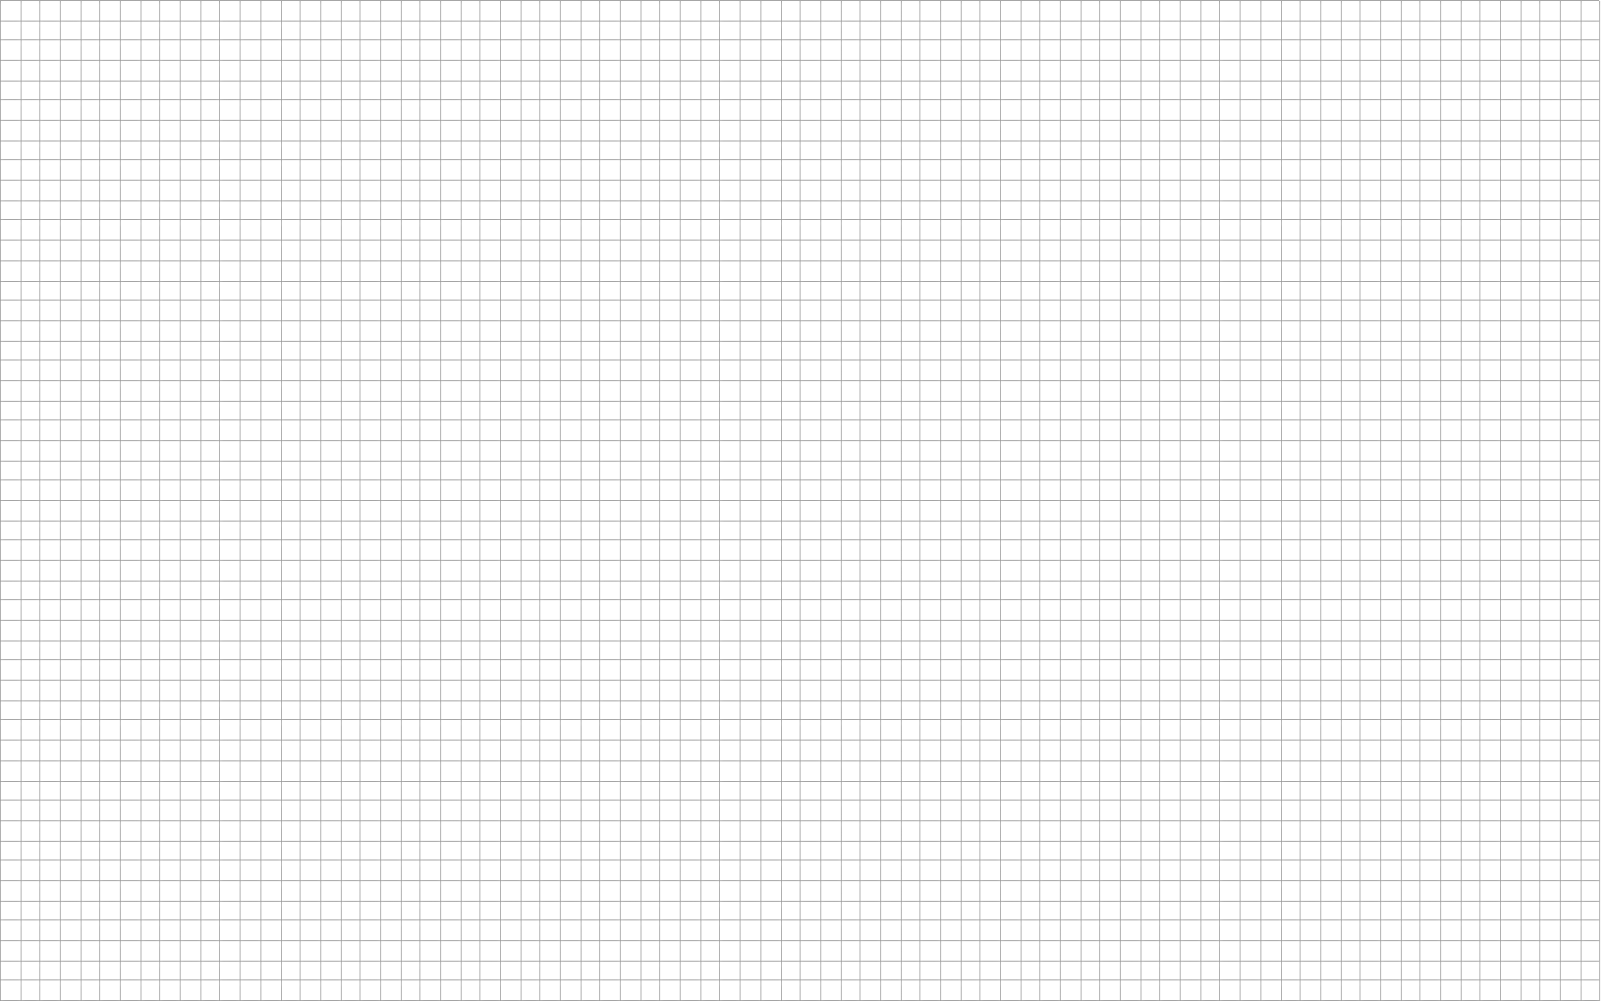
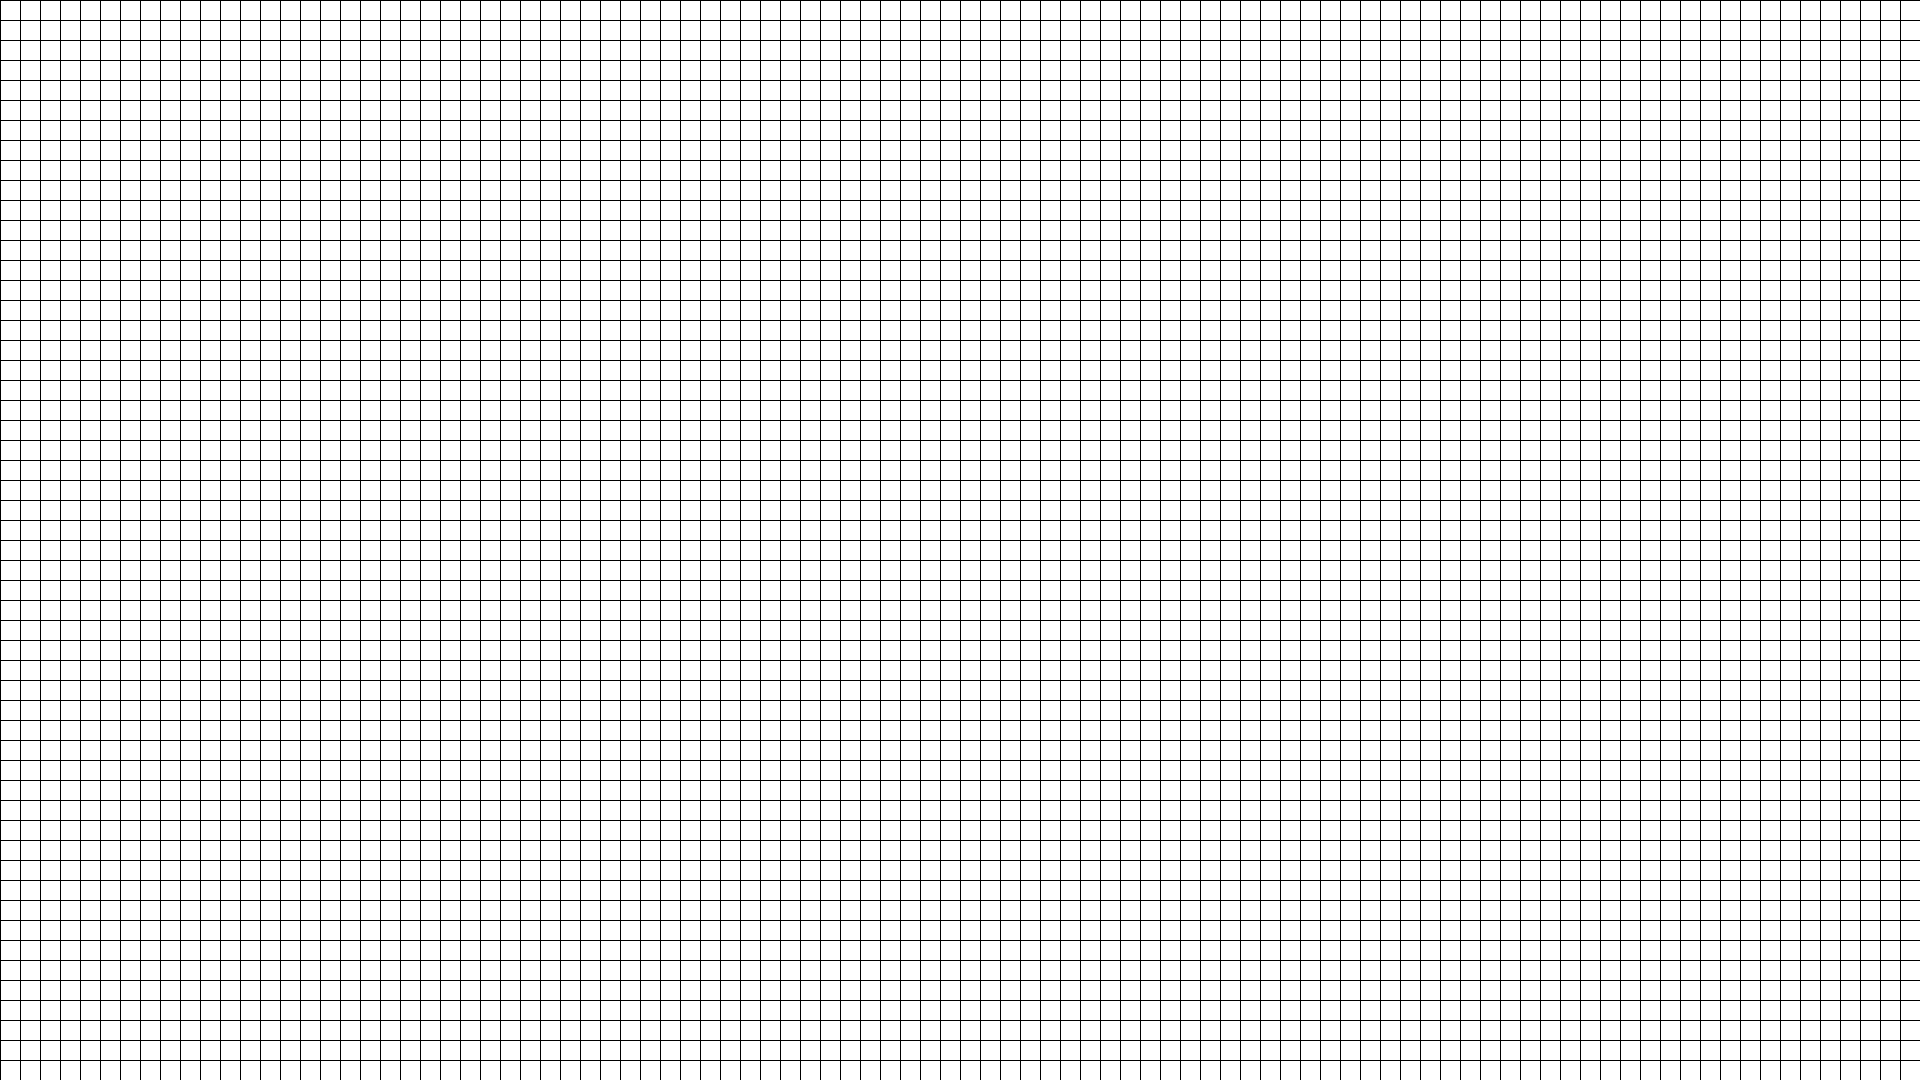
Added Automated Grid Generation (Adjustable)

Changed region(s): [[0.0, 0.0, 1.0, 1.0]]

diff --git a/app/app.js b/app/app.js
@@ -73,8 +73,8 @@ function capitalize(word) {
 }
 
 /**
- * Creates the HTML Elements to make a generic Sidebar (i.e. its rectangle, title and
- * ruler).
+ * Creates the HTML Elements to make a Sidebar (i.e. a rectangle, title, ruler and
+ * collection display.
  * 
  * The result can be seen on the HTML file as this section being included inside the 
  * `body` element:
@@ -82,12 +82,14 @@ function capitalize(word) {
  * <div id="[type]-bar" class="bar">
  *     <span class="bar-title">[Type]</span>
  *     <hr>
+ *     <div>...</div>
+ *     <div>...</div>
  *     ...
  * </div>
  * ```
  * where `[type]` is the value of the given parameter (capitalized for the span
- * element), and the space after the horizontal ruler is left for the elements
- * collection to be added later by `get[Type]Bar()` functions.
+ * element), and the div's after the horizontal ruler represent each element in the
+ * requested bar's collection.
  * @param {string} type `["objects" | "symbols" | "variables"]`
  */
 function getBar(type) {
@@ -169,9 +171,33 @@ function toggleBar() {
     }
 }
 
-// TESTING
+// SIDEBAR TESTING
 let sidebarOn = false;
 let activeBar = "objects";
 
 const sidebarButton = document.getElementById("sidebarToggle");
 sidebarButton.addEventListener("click", () => toggleBar());
+
+// GRID FUNCTIONALITY
+var x_diff = 0;
+var y_diff = 0;
+const grid = document.getElementById("grid");
+var mouseDown = false;
+document.onmousedown = (event) => {
+    mouseDown = true;
+    // Grid Position getters rely on `top` and `left` being measured in px
+    var top = parseInt(window.getComputedStyle(grid).getPropertyValue("top").slice(0, -2));
+    var left = parseInt(window.getComputedStyle(grid).getPropertyValue("left").slice(0, -2));
+    var mouseX = event.x;
+    var mouseY = event.y;
+    x_diff = mouseX - left;
+    y_diff = mouseY - top;
+};
+document.onmouseup = () => mouseDown = false;
+document.onmousemove = (event) => {
+    if (mouseDown) {
+        grid.style.left = `${event.x - x_diff}px`;
+        grid.style.top = `${event.y - y_diff}px`;
+        console.log(top);
+    };
+};

diff --git a/app/app.css b/app/app.css
@@ -10,12 +10,16 @@
 
 body {
     font-family: 'Inter', Courier;
+    overflow: clip;
 }
 
 #grid {
     position: absolute;
     top: 0px;
     left: 0px;
+    opacity: 1;
+    pointer-events: none;
+    user-select: none;
 }
 
 #sidebarToggle {

diff --git a/app/gridDrawer.py b/app/gridDrawer.py
@@ -1,0 +1,33 @@
+"""To be run when there need to be changes made in the grid of the app."""
+
+from math import ceil
+from PIL import Image
+
+# Measured in pixels
+SCREEN_WIDTH = 1920
+SCREEN_HEIGHT = 1200
+BROWSER_HEIGHT = 1065
+GRID_UNIT_WIDTH = 20
+GRID_UNIT_HEIGHT = 20
+
+# Grid Generation
+grid_unit = Image.open(r"C:\Users\Carlos Andres\Code\Projects\IMOGI\app\images\Grid Unit.png")
+grid_unit = grid_unit.crop((0, 0, 20, 20))
+
+# Only height varies between screen and browser, width is the same
+units_in_width = GRID_UNIT_WIDTH * ceil(SCREEN_WIDTH/GRID_UNIT_WIDTH)
+units_in_height = GRID_UNIT_HEIGHT * ceil(BROWSER_HEIGHT/GRID_UNIT_HEIGHT)
+full_grid = Image.new("RGBA", (units_in_width, units_in_height))
+
+# Repeatedly paste the Grid Unit on the output image
+for x in range(units_in_width):
+    x_pos = GRID_UNIT_WIDTH * x
+    for y in range(units_in_height):
+        y_pos = GRID_UNIT_HEIGHT * y
+        full_grid.paste(grid_unit, (x_pos, y_pos))
+
+print("Completed Processing.\n")
+
+full_grid.save(r"C:\Users\Carlos Andres\Code\Projects\IMOGI\app\images\Grid.png")
+print("The Grid image has been successfully created.\n\
+(saved as \"app/images/Grid.png\")")
